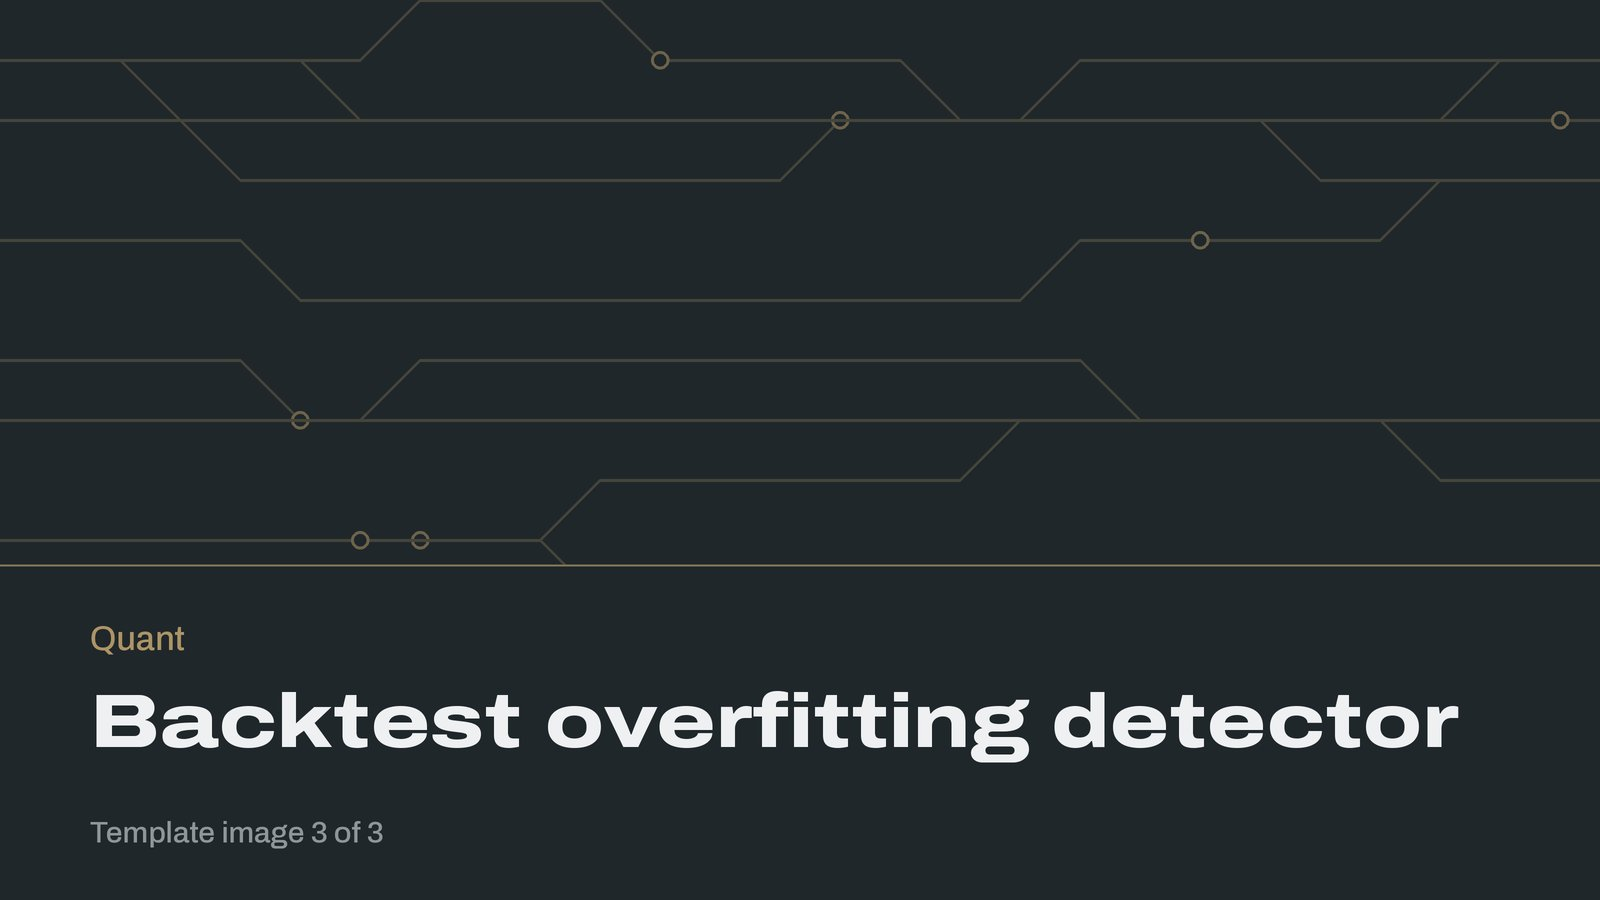
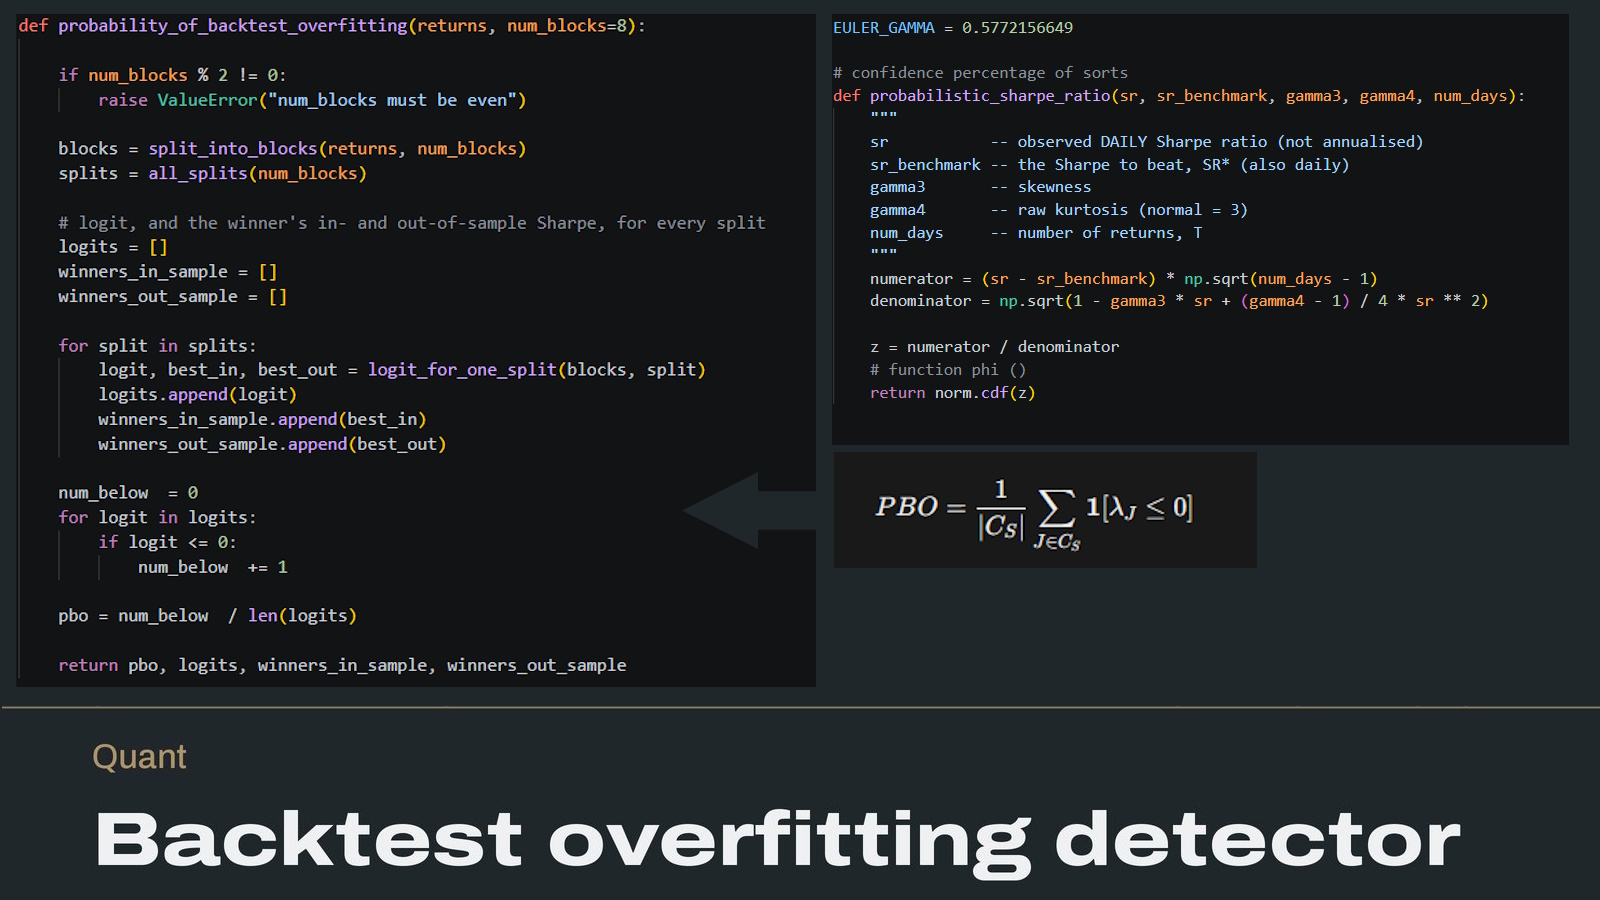
overfitting detector page improved with images

diff --git a/projects/backtest-overfitting-detector.html b/projects/backtest-overfitting-detector.html
@@ -4,7 +4,7 @@
   <meta charset="utf-8">
   <meta name="viewport" content="width=device-width, initial-scale=1">
   <title>Backtest overfitting detector: Hayden Bell</title>
-  <meta name="description" content="A tool that estimates how likely a trading strategy's backtest is to be overfit, so a lucky result isn't mistaken for a real edge.">
+  <meta name="description" content="A tool that estimates whether the best strategy in a backtest has a real edge, or is just the luckiest of many tries.">
   <link rel="preload" href="../assets/fonts/archivo.woff2" as="font" type="font/woff2" crossorigin>
   <link rel="stylesheet" href="../css/styles.css">
   <script src="../js/apps.js"></script>
@@ -20,7 +20,7 @@
       </a>
       <nav class="site-nav" aria-label="Main">
         <ul>
-          <li><a href="../index.html#work">Work</a></li>
+          <li><a href="../index.html#work">Home</a></li>
           <li><a href="../projects.html">All projects</a></li>
           <li><button class="theme-toggle" type="button" role="switch" aria-checked="false" aria-label="Dark mode">
             <span class="track">
@@ -65,21 +65,22 @@
           <span class="stage-count" aria-live="polite">1 / 3</span>
         </div>
         <div class="thumbs">
-          <button class="shot-thumb" type="button" aria-label="Picture 1"><img src="../assets/projects/backtest-overfitting-detector/shot-1.jpg" alt="Backtest overfitting detector, picture 1"></button>
-          <button class="shot-thumb" type="button" aria-label="Picture 2"><img src="../assets/projects/backtest-overfitting-detector/shot-2.jpg" alt="Backtest overfitting detector, picture 2"></button>
-          <button class="shot-thumb" type="button" aria-label="Picture 3"><img src="../assets/projects/backtest-overfitting-detector/shot-3.jpg" alt="Backtest overfitting detector, picture 3"></button>
+          <button class="shot-thumb" type="button" aria-label="Picture 1"><img src="../assets/projects/backtest-overfitting-detector/shot-1.jpg" alt="Histogram of the Sharpe ratios of 1,000 random noise strategies, with the best one marked far out on the right"></button>
+          <button class="shot-thumb" type="button" aria-label="Picture 2"><img src="../assets/projects/backtest-overfitting-detector/shot-2.jpg" alt="In-sample against out-of-sample Sharpe ratio for each split's winner, showing that winners on noise don't carry their performance over"></button>
+          <button class="shot-thumb" type="button" aria-label="Picture 3"><img src="../assets/projects/backtest-overfitting-detector/shot-3.jpg" alt="Terminal output of the detector's report, showing the deflated Sharpe ratio, PBO and verdict"></button>
         </div>
       </section>
 
       <aside class="capsule">
-        <p class="capsule-desc">A tool that estimates how likely a trading strategy's backtest is to be overfit, so a lucky result isn't mistaken for a real edge.</p>
+        <p class="capsule-desc">A tool that estimates whether the best strategy in a backtest has a real edge, or is just the luckiest of many tries. 
+          <br><a href="https://github.com/HaydenLBell/backtest-overfitting-detector">Github Link</a></p>
         <dl class="info-list">
           <div><dt>Category</dt><dd>Quant</dd></div>
           <div><dt>Role</dt><dd>Solo project</dd></div>
           <div><dt>Date</dt><dd>Nov 2026 to now</dd></div>
           <div><dt>Status</dt><dd><span class="status">In progress</span></dd></div>
         </dl>
-        <ul class="tag-row"><li>Python</li><li>NumPy</li><li>pandas</li><li>Statistics</li><li>Backtesting</li></ul>
+        <ul class="tag-row"><li>Python</li><li>C++</li><li>NumPy</li><li>SciPy</li><li>Matplotlib</li><li>Statistics</li><li>Backtesting</li></ul>
       </aside>
     </div>
 
@@ -87,23 +88,45 @@
       <article>
         <section class="store-section">
           <h2 class="store-h">About this project</h2>
-          <p>Try enough versions of a strategy on the same historical data and some of them will look excellent purely by chance. A backtest on its own can't tell you whether you found an edge or fitted the noise, and the version that looks best is often the one that was fitted hardest.</p>
-          <p>This tool takes a strategy's backtest results and estimates how likely they are to hold up on data the strategy hasn't seen.</p>
+          <p>Try enough versions of a trading strategy on the same historical data and one of them will look brilliant. That doesn't mean it works. It might just be the version that happened to line up with the noise, and a backtest on its own can't tell you which.</p>
+          <p>To see how bad this gets, I generated 1,000 strategies made of pure random noise, so every one of them had a true Sharpe ratio of zero, and backtested each over a year of daily data. The best one came out with an annualised Sharpe ratio of about 3.4. Shown on its own, that looks like a great find. It's just the luckiest of 1,000.</p>
+          <p>This tool takes the returns of every variant you tried, not just the winner, and estimates how much of the winner's performance is likely to be luck.</p>
         </section>
 
         <section class="store-section">
           <h2 class="store-h">What it checks</h2>
           <ul class="feature-list">
-            <li><strong>Deflated Sharpe ratio</strong>: Adjusts a strategy's Sharpe ratio for how many variations were tried, so a high score found by brute force counts for less.</li>
-            <li><strong>Probability of backtest overfitting</strong>: Splits the history into blocks, tries every combination of in-sample and out-of-sample halves, and measures how often the in-sample winner falls behind out of sample.</li>
-            <li><strong>Walk-forward testing</strong>: Re-fits the strategy on a rolling window and tests it only on the data that comes after.</li>
-            <li><strong>A clear verdict</strong>: One report per strategy: likely real, uncertain, or likely overfit, with the numbers behind it.</li>
+            <li><strong>Deflated Sharpe ratio</strong>: Starts from the probabilistic Sharpe ratio, which asks how confident you can be that a strategy's true Sharpe ratio is above a benchmark, given how much data you have and how skewed or fat-tailed the returns are. The deflated version raises that benchmark to the Sharpe ratio the best of N zero-skill strategies would reach by luck, so the more variants you try, the higher the bar.</li>
+            <li><strong>Probability of backtest overfitting</strong>: Splits the history into equal blocks and tries every way of using half of them to pick a winner and the other half to check it (70 splits with 8 blocks). Each time, it sees where the in-sample winner ranks out of sample. PBO is how often it ends up in the bottom half.</li>
+            <li><strong>A verdict</strong>: One report for the whole set of strategies tried: likely genuine, inconclusive, or likely overfit, with the numbers behind it.</li>
           </ul>
         </section>
 
         <section class="store-section">
+          <h2 class="store-h">The maths, briefly</h2>
+          <p>The luck benchmark for N strategies comes from extreme value theory. It's roughly where the maximum of N draws from a bell curve is expected to land, scaled by how spread out the Sharpe ratios of all the trials were:</p>
+          <p><code>SR* = σ(SR) × [ (1 − γ) Φ⁻¹(1 − 1/N) + γ Φ⁻¹(1 − 1/(Ne)) ]</code></p>
+          <p>where γ ≈ 0.5772 is the Euler–Mascheroni constant. The deflated Sharpe ratio is then the probabilistic Sharpe ratio measured against SR* instead of zero.</p>
+          <p>For PBO, the in-sample winner's out-of-sample rank is turned into a relative rank and then a logit:</p>
+          <p><code>ω = rank / (N + 1),   λ = ln(ω / (1 − ω))</code></p>
+          <p>A negative λ means the winner did worse than the median strategy on data it wasn't picked on. PBO is the share of splits where λ ≤ 0.</p>
+        </section>
+
+        <section class="store-section">
+          <h2 class="store-h">Testing it</h2>
+          <p>Before trusting it on real strategies, I tested it on synthetic data where I already knew the right answer.</p>
+          <ul class="feature-list">
+            <li><strong>Pure noise</strong>: 1,000 noise strategies over a year gave a deflated Sharpe ratio of 0.54. A plain probabilistic Sharpe ratio against zero would call the same winner almost certainly real, because it doesn't know about the other 999. PBO on noise averaged around 0.5, as it should.</li>
+            <li><strong>A planted edge</strong>: I added 0.2% a day to one strategy. With one year of data the detector picked it out but only gave a deflated Sharpe ratio of 0.75, not enough to call it. With ten years it reached 1.00.</li>
+            <li><strong>A realistic edge</strong>: Shrinking the edge to 0.02% a day (an annual Sharpe ratio of about 0.3) meant even ten years of data couldn't confirm it. With 1,000 variants in play, a small real edge just gets lost in the luck.</li>
+          </ul>
+          <p>That last result was the most useful thing I've learned so far. The more ideas you test, the bigger an edge has to be before you can tell it apart from chance.</p>
+        </section>
+
+        <section class="store-section">
           <h2 class="store-h">What I'm working on</h2>
-          <p>Small samples are the hard case. With a few years of daily data the statistics get noisy, so the tool has to say when it can't tell, rather than give a confident answer it can't back up.</p>
+          <p>Next is running it on real research: a sweep of moving-average strategies on 15 years of S&amp;P 500 data, to see whether the best combination survives. After that, unit tests, and rewriting the cross-validation loop in C++ with Python bindings. With 16 blocks it has 12,870 splits to get through, so it's the obvious bottleneck.</p>
+          <p>Small samples are still the hard case. With a few years of daily data the statistics get noisy, and even PBO itself varies a lot from one dataset to the next. The tool needs to say when it can't tell, rather than give a confident answer it can't back up.</p>
         </section>
       </article>
 

diff --git a/index.html b/index.html
@@ -41,7 +41,8 @@
 
       <div>
         <h1>Hayden Bell</h1>
-        <p class="lede">I write software that has to keep working: control code for a Formula Student car, flight software for an autonomous UAV, and tools that catch a bad result before anyone acts on it.</p>
+        <p class="lede">
+          I write optimised software that has to keep working: control code for a Formula Student car, flight software for an autonomous UAV, and quant tools that catch a bad result before anyone acts on it.</p>
 
         <ul class="facts-strip">
           <li><span class="label">Studying</span><span class="value">BSc (Hons) Computer Science</span></li>
@@ -187,7 +188,7 @@
       <div class="">
         <div class="card skill-card">
           <h3>Languages</h3>
-          <ul class="chips"><li class="hot">C++</li><li class="hot">Python</li><li>C</li><li>C#</li><li>JavaScript</li><li>SQL</li><li>MATLAB</li><li>Assembly</li><li>Shell</li></ul>
+          <ul class="chips"><li class="hot">C++</li><li class="hot">Python</li><li>C</li><li>C#</li><li>Java</li><li>Assembly</li><li>R</li><li>JavaScript</li><li>SQL</li><li>MATLAB</li><li>Shell</li></ul>
         </div>
         <div class="card skill-card">
           <h3>Embedded and systems</h3>
@@ -213,7 +214,7 @@
       <h2 class="section-title">Outside of tech</h2>
       <p>Outwith my professional development, I enjoy a variety of hobbies. I enjoy the outdoors and have spent
         a lot of time camping and hiking. I also do mountaineering, and alpinism - In the summer of 2026, I climbed
-        Gran Paradiso, the tallest mountain in Italy. I play tennis, in local club competitions, and I train for Ironmans (70.3).
+        Gran Paradiso, the tallest mountain in Italy. I play tennis, in a local club, and I train for Ironmans (70.3).
         In the past, I was a competitive figure skater, competiting in national championships.
         
       </p>

diff --git a/projects.html b/projects.html
@@ -20,7 +20,7 @@
       </a>
       <nav class="site-nav" aria-label="Main">
         <ul>
-          <li><a href="index.html#work">Work</a></li>
+          <li><a href="index.html#work">Home</a></li>
           <li><a href="projects.html" aria-current="page">All projects</a></li>
           <li><button class="theme-toggle" type="button" role="switch" aria-checked="false" aria-label="Dark mode">
             <span class="track">
